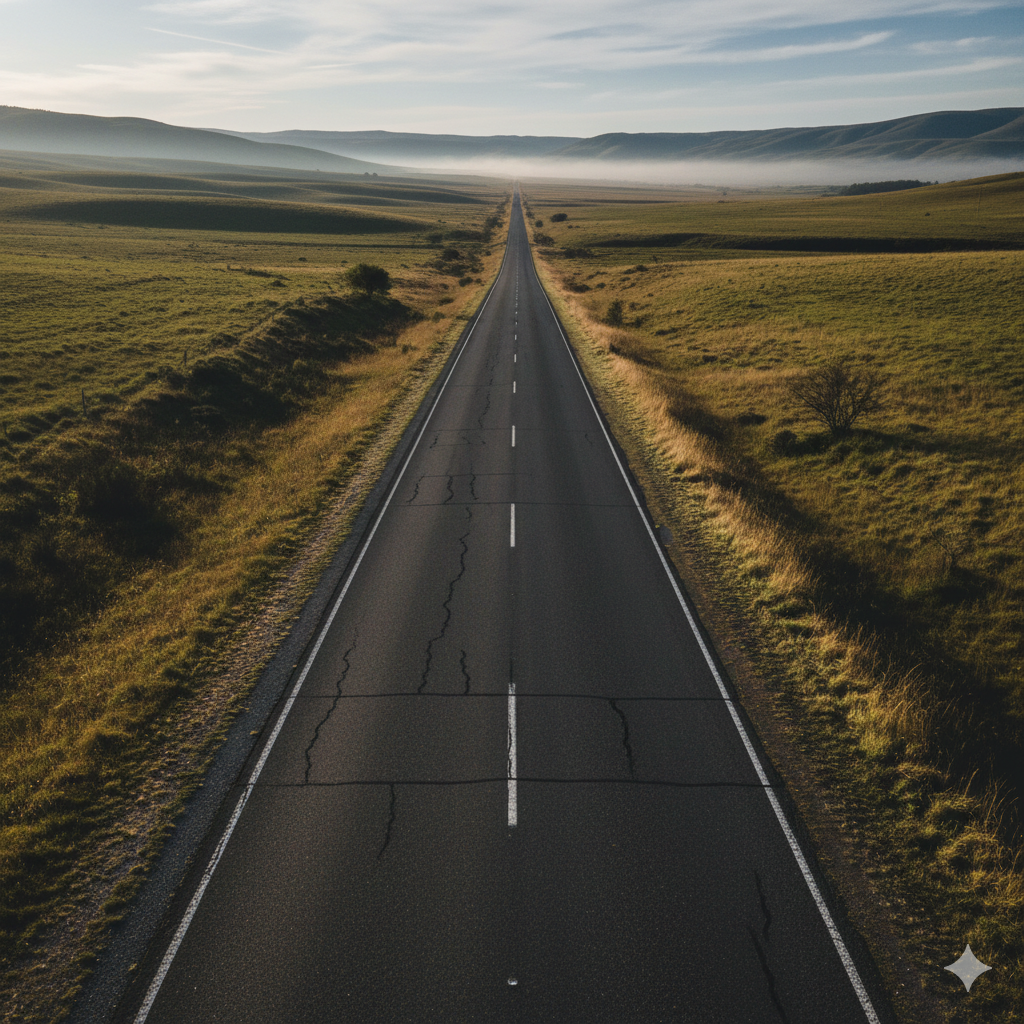
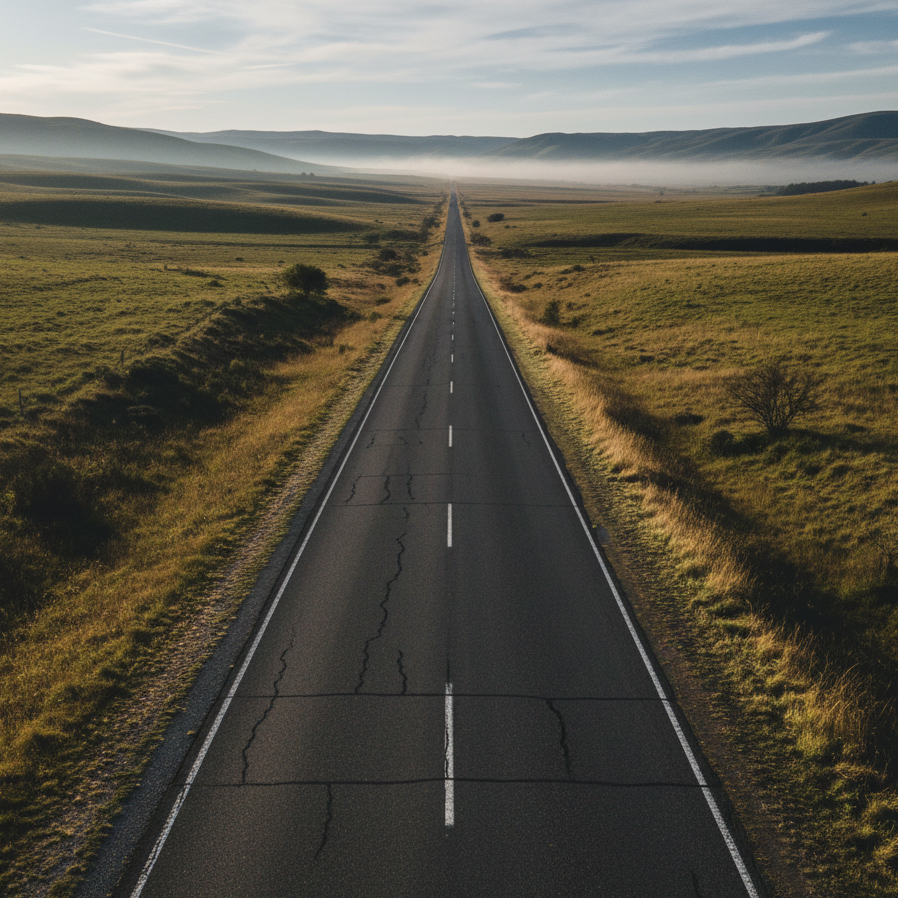
2026-01-05-17-48-00

diff --git a/550e8400-e29b-41d4-a716-446655440000/tente-ta-chance.html b/550e8400-e29b-41d4-a716-446655440000/tente-ta-chance.html
@@ -36,7 +36,7 @@
         </div>
         <div class="scratch-wrap" id="lux-scratch">
             <div class="reveal" id="reveal">
-                <img id="reveal-image" src="image/reveal-image.png" alt="Dommage, peut-être une prochaine fois" style="position:absolute;inset:0;width:100%;height:100%;object-fit:cover;border-radius:6px;filter:blur(6px);transition:filter .3s ease;z-index:1">
+                <img id="reveal-image" src="image/reveal-image.png" alt="Dommage, peut-être une prochaine fois" style="position:absolute;inset:0;width:100%;height:100%;object-fit:contain;object-position:center;background:#111;border-radius:6px;filter:blur(6px);transition:filter .3s ease;z-index:1">
                 <!-- caption shown before reveal date -->
                 <h1 id="reveal-caption" style="position:absolute;z-index:2;margin:0;font-family:'Playfair Display',serif;font-size:28px;color:rgba(255,241,200,0.95);text-shadow:0 2px 8px rgba(0,0,0,0.6);filter:blur(6px);transition:filter .3s ease,opacity .3s ease;pointer-events:none">Dommage, peut-être une prochaine fois</h1>
                 <!-- final reveal image shown on or after target date -->

diff --git a/550e8400-e29b-41d4-a716-446655440000/index.html b/550e8400-e29b-41d4-a716-446655440000/index.html
@@ -61,7 +61,7 @@
         /* month label should take remaining vertical space and align at bottom */
         .bubble .month-label{font-size:13px;color:var(--muted);margin-top:auto;text-align:center;display:block}
         .bubble .lock-icon{font-size:28px;color:var(--mustard);align-self:center}
-        .bubble img{width:100%;height:72px;border-radius:8px;object-fit:cover;box-shadow:0 3px 10px rgba(0,0,0,0.5);display:block}
+        .bubble img{width:100%;height:72px;border-radius:8px;object-fit:contain;object-position:center;background:#111;box-shadow:0 3px 10px rgba(0,0,0,0.5);display:block}
         .bubble.future img{display:none}
         .bubble p{margin:6px 0 0;font-size:13px;color:var(--muted)}
         .bubble.past{filter:grayscale(0.3);opacity:0.9}

diff --git a/550e8400-e29b-41d4-a716-446655440000/etape-2026-01-05.html b/550e8400-e29b-41d4-a716-446655440000/etape-2026-01-05.html
@@ -17,7 +17,7 @@
 <body>
   <div id="etape-2026-01-05" class="card" style="border:4px solid var(--mustard)">
     <!-- Image Janvier : route en perspective. Remplacez par votre photo si désiré. -->
-    <img src="image/january-road.png" alt="Route en perspective - Janvier" style="width:100%;height:auto;margin-bottom:14px;object-fit:cover;display:block;border:0">
+    <img src="image/january-road.png" alt="Route en perspective - Janvier" style="width:100%;height:auto;margin-bottom:14px;object-fit:contain;object-position:center;display:block;border:0;background:#111">
     <h1>Janvier — Premier Soir</h1>
     <div class="meta">05/01/2026 — Premier Soir, premier pas !</div>
 
